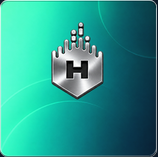
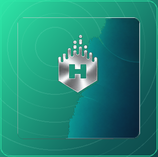
Yogiyo-style 260px sidebar + chrome mint tiles
- Expanded left sidebar (게임/이벤트/투윈TV/일반적인) with Twowin mint
- Hamburger toggle; event + TwowinTV cards; expandable sports menus
- Category & provider tiles: mint diagonal gradient + silver chrome logos only
- Flush image top + KO/EN label bars; sportsbook photo → chrome lettering

diff --git a/index.html b/index.html
@@ -5,53 +5,96 @@
 <meta name="viewport" content="width=device-width,initial-scale=1">
 <title>TWOWIN BET</title>
 <style>
-/* Pixel-locked to tting-2.com @ 1920×1072
-   header 60 · sidebar 80 · main 1400@x300 · content 1336 pad32
-   hero 1336×240 · cats 123×126 gap12 · cards 158×211 gap10 ×8
-   TWOWIN mint/silver skin */
+/* Twowin mint · yogiyo-style expanded sidebar 260 · tting content lock */
 :root{
   --bg:#070e18; --panel:#0d1826; --panel2:#111f30; --side:#0a1420;
-  --mint:#2EE8A8; --text:#e8eef4; --muted:#8a9aab; --line:#2EE8A833;
+  --mint:#2EE8A8; --mint2:#30D4A4; --text:#e8eef4; --muted:#8a9aab; --line:#2EE8A833;
   --silver:linear-gradient(180deg,#f7f9fb 0%,#c5ced8 52%,#8e99a6 100%);
-  --hh:60px; --sw:80px; --main-x:300px; --cw:1336px; --main-w:1400px;
+  --hh:60px; --sw:260px; --main-x:280px; --cw:1336px; --main-w:1400px;
 }
 *{box-sizing:border-box}
 html,body{margin:0;background:var(--bg);color:var(--text);font-family:"Pretendard","Noto Sans KR",system-ui,sans-serif;min-width:1440px}
 a{color:inherit;text-decoration:none}
+body.side-collapsed{--sw:0px;--main-x:24px}
 header.desktop-header{
   width:1920px;max-width:100%;height:var(--hh);
-  display:flex;align-items:center;gap:10px;padding:0 24px;
+  display:flex;align-items:center;gap:12px;padding:0 24px;
   background:#070e18;border-bottom:1px solid var(--line);
   position:fixed;inset:0 0 auto 0;z-index:30;
 }
+.hamb{
+  width:36px;height:36px;border-radius:8px;border:1px solid #2EE8A844;
+  background:var(--panel2);color:var(--mint);cursor:pointer;
+  display:grid;place-items:center;font-size:18px;line-height:1;flex:0 0 auto;
+}
+.hamb:hover{border-color:var(--mint);box-shadow:0 0 10px #2EE8A855}
 header .logo{height:32px;width:auto}
 header .sp{flex:1}
 .ib{width:36px;height:36px;border-radius:50%;background:var(--panel2);border:1px solid #2EE8A844;display:grid;place-items:center;color:var(--mint);font-size:14px}
 .btn{border:0;border-radius:8px;height:40px;padding:0 22px;font-weight:700;font-size:14px;cursor:pointer;background:var(--silver);color:#0a1420}
 .btn.ghost{background:transparent;border:1px solid #2EE8A855;color:var(--text)}
 .btn.m{background:var(--mint);color:#062218}
-/* collapsed icon sidebar — 80px, item 56×52, icon 24, x=12 */
+
+/* ===== Yogiyo-style expanded sidebar 260 ===== */
 aside.sidebar{
   position:fixed;top:var(--hh);left:0;bottom:0;width:var(--sw);
   background:var(--side);border-right:1px solid var(--line);
-  overflow:auto;padding:12px 0;z-index:25;display:flex;flex-direction:column;align-items:center;gap:4px;
+  overflow:hidden auto;padding:12px 0 24px;z-index:25;
+  transition:width .2s ease, padding .2s ease;
 }
-aside.sidebar .side-item{
-  position:relative;width:56px;height:52px;margin:0 auto;
-  border-radius:10px;display:flex;flex-direction:column;align-items:center;justify-content:center;
-  color:var(--muted);font-size:9px;font-weight:700;gap:4px;cursor:pointer;
+body.side-collapsed aside.sidebar{padding:0;border-right:0;overflow:hidden}
+.side-sec{padding:6px 17px 10px;width:100%}
+.side-sec-title{
+  font-size:12px;font-weight:700;color:var(--muted);
+  letter-spacing:.02em;margin:8px 0 8px;padding:0 4px;
 }
-aside.sidebar .side-item .ic{
-  width:24px;height:24px;border-radius:6px;background:var(--panel2);
-  display:grid;place-items:center;color:var(--mint);font-size:11px;font-weight:900;overflow:hidden;
+.side-item{
+  position:relative;width:226px;height:42px;margin:0 0 4px;
+  border-radius:10px;display:flex;align-items:center;gap:12px;
+  padding:0 12px;color:#d7e2ec;font-size:14px;font-weight:600;
+  cursor:pointer;border:0;background:transparent;text-align:left;
 }
-aside.sidebar .side-item:hover,aside.sidebar .side-item.on{background:#12384f;color:var(--mint)}
-aside.sidebar .side-item.on{box-shadow:inset 3px 0 0 var(--mint)}
-/* main-desktop: 1400 @ x=300; inner 1336 with 32 pad → content x=332 */
+.side-item .ic{
+  width:24px;height:24px;flex:0 0 24px;color:var(--mint);
+  display:grid;place-items:center;
+}
+.side-item .ic svg{width:22px;height:22px;display:block}
+.side-item .lab{flex:1;white-space:nowrap;overflow:hidden;text-overflow:ellipsis}
+.side-item .chev{color:var(--muted);font-size:12px;transition:transform .15s}
+.side-item.open .chev{transform:rotate(180deg);color:var(--mint)}
+.side-item:hover,.side-item.on{background:#12384f;color:var(--mint)}
+.side-item.on{box-shadow:inset 3px 0 0 var(--mint)}
+.side-sub{display:none;padding:0 0 6px 36px}
+.side-item.open + .side-sub{display:block}
+.side-sub a{
+  display:block;height:32px;line-height:32px;font-size:13px;color:var(--muted);
+  border-radius:8px;padding:0 10px;
+}
+.side-sub a:hover{color:var(--mint);background:#12384f66}
+.side-item.gen{height:38px;font-size:13px;font-weight:500;color:#c5d0db}
+.side-card{
+  width:226px;height:58px;border-radius:12px;margin:4px 0 8px;
+  background:linear-gradient(135deg,#12384f 0%,#0d1826 60%);
+  border:1px solid #2EE8A855;display:flex;align-items:center;gap:12px;
+  padding:0 12px;cursor:pointer;overflow:hidden;
+  box-shadow:inset 0 0 18px #2EE8A820;
+}
+.side-card:hover{border-color:var(--mint);box-shadow:0 0 14px #2EE8A855}
+.side-card .ic{
+  width:36px;height:36px;border-radius:10px;flex:0 0 36px;
+  background:linear-gradient(135deg,#2EE8A8,#0a3a34);display:grid;place-items:center;color:#fff;
+}
+.side-card .ic svg{width:22px;height:22px}
+.side-card .txt{display:flex;flex-direction:column;gap:2px;min-width:0}
+.side-card .txt b{font-size:14px;font-weight:800;color:#fff;white-space:nowrap;overflow:hidden;text-overflow:ellipsis}
+.side-card .txt small{font-size:11px;color:var(--muted);white-space:nowrap;overflow:hidden;text-overflow:ellipsis}
+.side-card.tv .ic{background:linear-gradient(135deg,#30D4A4,#0b5d4f)}
+
 main.main-desktop{
   margin:var(--hh) 0 0 var(--main-x);
   width:var(--main-w);max-width:calc(100% - var(--main-x));
-  padding:32px 32px 48px; /* 32 pad → content 1336 inside 1400 */
+  padding:32px 32px 48px;
+  transition:margin .2s ease;
 }
 .hero-banner{
   width:1336px;max-width:100%;height:240px;border-radius:14px;overflow:hidden;
@@ -64,16 +107,30 @@ main.main-desktop{
   border:0;background:#000a;color:#fff;cursor:pointer;font-size:18px;z-index:2;
 }
 .hero-banner .arrow.l{left:12px}.hero-banner .arrow.r{right:12px}
-.quick-nav-section{width:1336px;max-width:100%;height:126px;margin:30px 0 30px;display:grid;grid-template-columns:repeat(auto-fit,minmax(123px,1fr));gap:12px}
-.main-card{
-  position:relative;width:100%;height:126px;
-  background:var(--panel);border:1px solid #2EE8A844;border-radius:12px;
-  display:flex;flex-direction:column;align-items:center;justify-content:center;gap:10px;
-  font-size:13px;font-weight:700;box-shadow:inset 0 0 18px #2EE8A814;
+
+/* Category quick-nav: flush mint chrome tile + KO/EN label bar */
+.quick-nav-section{
+  width:1336px;max-width:100%;margin:30px 0 30px;
+  display:grid;grid-template-columns:repeat(7,1fr);gap:12px;
 }
-.main-card .ic{width:40px;height:40px;border-radius:10px;background:var(--silver);display:grid;place-items:center;color:#0a1420;font-weight:900;font-size:14px;overflow:hidden}
-.main-card .ic img{width:100%;height:100%;object-fit:cover}
+.main-card{
+  position:relative;width:100%;height:148px;
+  background:var(--panel);border:1px solid #2EE8A844;border-radius:12px;
+  display:flex;flex-direction:column;overflow:hidden;
+  box-shadow:inset 0 0 18px #2EE8A814;padding:0;
+}
+.main-card img.tile{
+  width:100%;height:104px;object-fit:cover;object-position:top center;
+  display:block;flex:0 0 104px;background:linear-gradient(135deg,#2EE8A8,#070e18);
+}
+.main-card .lbl{
+  flex:1;background:#2a2f38;display:flex;flex-direction:column;
+  justify-content:center;align-items:center;gap:1px;padding:4px 6px;text-align:center;
+}
+.main-card .lbl b{color:#fff;font-size:13px;font-weight:700;white-space:nowrap;overflow:hidden;text-overflow:ellipsis;max-width:100%}
+.main-card .lbl small{color:#9aa3ae;font-size:10px;white-space:nowrap;overflow:hidden;text-overflow:ellipsis;max-width:100%}
 .main-card:hover{border-color:var(--mint);box-shadow:0 0 14px #2EE8A866}
+
 .section-head{
   width:1336px;max-width:100%;height:38px;display:flex;align-items:center;gap:10px;margin:0 0 16px;
 }
@@ -87,9 +144,9 @@ section.game-section{width:1336px;max-width:100%;margin-bottom:28px}
 .pachinko-game-card-info{
   position:relative;flex:0 0 158px;width:158px;height:211px;
   border-radius:10px;overflow:hidden;border:1px solid #2EE8A855;background:var(--panel);
+  display:flex;flex-direction:column;
 }
-.pachinko-game-card-info{display:flex;flex-direction:column}
-.pachinko-game-card-info img{width:158px;height:155px;object-fit:cover;object-position:top center;display:block;background:#0d1826;flex:0 0 155px}
+.pachinko-game-card-info img{width:158px;height:155px;object-fit:cover;object-position:top center;display:block;background:linear-gradient(135deg,#2EE8A8,#070e18);flex:0 0 155px}
 .pachinko-game-card-info .lbl{flex:1;background:#2a2f38;display:flex;flex-direction:column;justify-content:center;align-items:center;gap:2px;padding:4px 6px;text-align:center}
 .pachinko-game-card-info .lbl b{color:#fff;font-size:14px;font-weight:700;white-space:nowrap;overflow:hidden;text-overflow:ellipsis;max-width:100%}
 .pachinko-game-card-info .lbl small{color:#9aa3ae;font-size:11px;white-space:nowrap;overflow:hidden;text-overflow:ellipsis;max-width:100%}
@@ -99,7 +156,7 @@ footer{
   margin-left:var(--main-x);width:var(--main-w);max-width:calc(100% - var(--main-x));
   background:#070e18;border-top:1px solid var(--line);
   padding:22px 32px;color:var(--muted);font-size:12px;
-  display:flex;flex-wrap:wrap;align-items:center;gap:18px;
+  display:flex;flex-wrap:wrap;align-items:center;gap:18px;transition:margin .2s ease;
 }
 footer .logo{height:26px}
 footer nav{display:flex;flex-wrap:wrap;gap:14px;flex:1}
@@ -115,6 +172,7 @@ footer nav span{position:relative}
 </head>
 <body>
 <header class="desktop-header">
+  <button class="hamb" id="hamb" type="button" aria-label="메뉴">☰</button>
   <img class="logo" src="img/logo.png" alt="TWOWIN">
   <div class="sp"></div>
   <div class="ib">👤</div>
@@ -145,7 +203,7 @@ footer nav span{position:relative}
 </div>
 <script src="config.js"></script>
 <script>
-const KEY='twowin-tting-v5';
+const KEY='twowin-tting-v6';
 let S=JSON.parse(localStorage.getItem(KEY)||'null')||JSON.parse(JSON.stringify(SITE));
 const save=()=>localStorage.setItem(KEY,JSON.stringify(S));
 const $=id=>document.getElementById(id);
@@ -161,15 +219,89 @@ function bind(el,arr){
     save();R();
   });
 }
+
+const ICONS={
+  pac:`<svg viewBox="0 0 24 24" fill="none" stroke="currentColor" stroke-width="1.8"><circle cx="12" cy="12" r="8"/><path d="M12 4v8l5 3"/></svg>`,
+  cas:`<svg viewBox="0 0 24 24" fill="none" stroke="currentColor" stroke-width="1.8"><rect x="4" y="5" width="10" height="14" rx="1.5"/><rect x="10" y="7" width="10" height="14" rx="1.5"/></svg>`,
+  slt:`<svg viewBox="0 0 24 24" fill="none" stroke="currentColor" stroke-width="1.8"><rect x="5" y="3" width="14" height="18" rx="2"/><path d="M8 8h8M8 12h8M8 16h8"/></svg>`,
+  spo:`<svg viewBox="0 0 24 24" fill="none" stroke="currentColor" stroke-width="1.8"><circle cx="12" cy="12" r="8"/><path d="M12 4c2 2.5 3 5 3 8s-1 5.5-3 8c-2-2.5-3-5-3-8s1-5.5 3-8zM4 12h16"/></svg>`,
+  bok:`<svg viewBox="0 0 24 24" fill="none" stroke="currentColor" stroke-width="1.8"><path d="M5 4h11a3 3 0 013 3v13H8a3 3 0 01-3-3V4z"/><path d="M8 4v16"/><circle cx="15" cy="11" r="2"/></svg>`,
+  b365:`<svg viewBox="0 0 24 24" fill="currentColor"><text x="12" y="16" text-anchor="middle" font-size="8" font-weight="800" font-family="Arial">365</text></svg>`,
+  mini:`<svg viewBox="0 0 24 24" fill="none" stroke="currentColor" stroke-width="1.8"><rect x="4" y="4" width="7" height="7" rx="1"/><rect x="13" y="4" width="7" height="7" rx="1"/><rect x="4" y="13" width="7" height="7" rx="1"/><rect x="13" y="13" width="7" height="7" rx="1"/></svg>`,
+  poly:`<svg viewBox="0 0 24 24" fill="none" stroke="currentColor" stroke-width="1.8"><path d="M12 3l8 5v8l-8 5-8-5V8l8-5z"/><path d="M12 12l8-4M12 12v10M12 12L4 8"/></svg>`,
+  brd:`<svg viewBox="0 0 24 24" fill="none" stroke="currentColor" stroke-width="1.8"><path d="M12 3l2.2 4.5L19 8.2l-3.5 3.4.8 4.9L12 14.8 7.7 16.5l.8-4.9L5 8.2l4.8-.7L12 3z"/></svg>`,
+  evt:`<svg viewBox="0 0 24 24" fill="none" stroke="currentColor" stroke-width="1.8"><rect x="5" y="6" width="14" height="14" rx="2"/><circle cx="10" cy="13" r="1.5"/><circle cx="14" cy="15" r="1.5"/></svg>`,
+  tv:`<svg viewBox="0 0 24 24" fill="none" stroke="currentColor" stroke-width="1.8"><rect x="3" y="7" width="18" height="12" rx="2"/><path d="M8 7l4-3 4 3M12 19v2"/></svg>`,
+  user:`<svg viewBox="0 0 24 24" fill="none" stroke="currentColor" stroke-width="1.8"><circle cx="12" cy="8" r="3.5"/><path d="M5 19c1.5-3.5 4-5 7-5s5.5 1.5 7 5"/></svg>`,
+  cal:`<svg viewBox="0 0 24 24" fill="none" stroke="currentColor" stroke-width="1.8"><rect x="4" y="5" width="16" height="15" rx="2"/><path d="M8 3v4M16 3v4M4 10h16"/></svg>`,
+  cs:`<svg viewBox="0 0 24 24" fill="none" stroke="currentColor" stroke-width="1.8"><path d="M4 12a8 8 0 0116 0v5a2 2 0 01-2 2h-2v-6h4M4 13h4v6H6a2 2 0 01-2-2v-4z"/></svg>`,
+  faq:`<svg viewBox="0 0 24 24" fill="none" stroke="currentColor" stroke-width="1.8"><path d="M8 9a4 4 0 017.2-2.4A3.5 3.5 0 0116 13h-2a2 2 0 00-2 2v1"/><circle cx="12" cy="19" r="1" fill="currentColor"/></svg>`,
+  doc:`<svg viewBox="0 0 24 24" fill="none" stroke="currentColor" stroke-width="1.8"><path d="M7 3h7l5 5v13a1 1 0 01-1 1H7a1 1 0 01-1-1V4a1 1 0 011-1z"/><path d="M14 3v5h5M9 13h6M9 17h6"/></svg>`,
+  globe:`<svg viewBox="0 0 24 24" fill="none" stroke="currentColor" stroke-width="1.8"><circle cx="12" cy="12" r="8"/><path d="M4 12h16M12 4c2.5 2.8 3.5 5.5 3.5 8S14.5 17.2 12 20c-2.5-2.8-3.5-5.5-3.5-8S9.5 6.8 12 4z"/></svg>`,
+  tg:`<svg viewBox="0 0 24 24" fill="none" stroke="currentColor" stroke-width="1.8"><path d="M4 11l15-6-3 15-5-4-3 3-1-5-3-3z"/></svg>`
+};
+const icon=k=>ICONS[k]||ICONS.pac;
+
+function renderSide(){
+  const secs=S.sideSections||SITE.sideSections||[];
+  let html='';
+  let flatIdx=0;
+  const flat=S.sideMenus||[];
+  secs.forEach((sec,si)=>{
+    html+=`<div class="side-sec" data-si="${si}">`;
+    html+=`<div class="side-sec-title">${sec.title}</div>`;
+    if(sec.kind==='eventCard'||sec.kind==='tvCard'){
+      const c=sec.card||{};
+      html+=`<div class="side-card ${sec.kind==='tvCard'?'tv':''} ed"><div class="ic">${icon(c.icon)}</div><div class="txt"><b>${c.title||''}</b><small>${c.sub||''}</small></div></div>`;
+    }else{
+      const items=sec.items||[];
+      const isGen=sec.title==='일반적인';
+      items.forEach((it,ii)=>{
+        const exp=!!it.expandable;
+        html+=`<button type="button" class="side-item ed ${isGen?'gen':''}" data-exp="${exp?1:0}" data-si="${si}" data-ii="${ii}">
+          <span class="ic">${icon(it.icon)}</span><span class="lab">${it.label}</span>
+          ${exp?'<span class="chev">▾</span>':''}
+          ${document.body.classList.contains('edit')?`<span class="x" data-a="sdel" data-si="${si}" data-ii="${ii}" style="position:absolute;right:4px;top:4px;display:block">×</span>`:''}
+        </button>`;
+        if(exp){
+          html+=`<div class="side-sub">${(it.children||[]).map(ch=>`<a href="#">${ch}</a>`).join('')}</div>`;
+        }
+        flatIdx++;
+      });
+    }
+    html+='</div>';
+  });
+  $('side').innerHTML=html;
+  $('side').querySelectorAll('.side-item[data-exp="1"]').forEach(btn=>{
+    btn.onclick=e=>{
+      if(e.target.closest('[data-a]'))return;
+      btn.classList.toggle('open');
+    };
+  });
+  $('side').querySelectorAll('[data-a="sdel"]').forEach(b=>{
+    b.onclick=e=>{
+      e.preventDefault();e.stopPropagation();
+      const si=+b.dataset.si,ii=+b.dataset.ii;
+      if(!confirm('삭제할까요?'))return;
+      (S.sideSections[si].items||[]).splice(ii,1);
+      save();R();
+    };
+  });
+}
+
 function R(){
-  const sideMenus=S.sideMenus||S.menus||[];
-  $('side').innerHTML=sideMenus.map((m,i)=>`<a href="#" class="side-item ed" title="${m}">${C(i)}<div class="ic">${m[0]}</div><span>${m.length>5?m.slice(0,4)+'…':m}</span></a>`).join('');
-  bind($('side'),sideMenus);
-  $('cats').innerHTML=(S.menus||[]).map((c,i)=>`<div class="main-card ed">${C(i)}<div class="ic"><img src="icons/cat-${(S.menuIcons&&S.menuIcons[i])||n2(i)}.png" onerror="this.replaceWith(document.createTextNode('${c[0]}'))"></div>${c}</div>`).join('');
+  renderSide();
+  const ens=S.menuEn||SITE.menuEn||[];
+  $('cats').innerHTML=(S.menus||[]).map((c,i)=>{
+    const en=ens[i]||'';
+    const ic=(S.menuIcons&&S.menuIcons[i])||n2(i);
+    return `<div class="main-card ed">${C(i)}<img class="tile" src="icons/cat-${ic}.png" alt="${c}" onerror="this.style.opacity=.3"><div class="lbl"><b contenteditable>${c}</b><small contenteditable>${en}</small></div></div>`;
+  }).join('');
   bind($('cats'),S.menus);
   $('fl').innerHTML=(S.footerLinks||[]).map((f,i)=>`<span class="ed">${f}<button class="x" style="top:-14px;right:-10px" data-a="del" data-i="${i}">×</button></span>`).join('');
   bind($('fl'),S.footerLinks);
-  const KO={evolution:'에볼루션',pragmatic:'프라그마틱',blackjack:'블랙잭',baccarat:'바카라',roulette:'룰렛',wheel:'휠',microgaming:'마이크로게이밍',playtech:'플레이텍',dreamgaming:'드림게이밍',sexy:'섹시게이밍',ezugi:'이주기',skywind:'스카이윈드',betradar:'벳레이더',hacksaw:'핵쏘',pgsoft:'PG소프트',habanero:'하바네로',netent:'넷엔트',cq9:'CQ9',booongo:'부운고',redtiger:'레드타이거',relax:'릴렉스'};
+  const KO={evolution:'에볼루션',pragmatic:'프라그마틱',blackjack:'블랙잭',baccarat:'바카라',roulette:'룰렛',wheel:'휠',microgaming:'마이크로게이밍',playtech:'플레이텍',dreamgaming:'드림게이밍',sexy:'섹시게이밍',ezugi:'이주기',skywind:'스카이윈드',betradar:'벳레이더',hacksaw:'핵쏘',pgsoft:'PG소프트',habanero:'하바네로',netent:'넷엔트',cq9:'CQ9',booongo:'부운고',boongo:'부운고',redtiger:'레드타이거',relax:'릴렉스',allbet:'올벳',oriental:'오리엔탈',playace:'플레이에이스',sportsbook:'스포츠북',saba:'사바',bt1:'BT1'};
+  const EN={evolution:'EVOLUTION',pragmatic:'PRAGMATIC',microgaming:'MICROGAMING',pgsoft:'PG SOFT',habanero:'HABANERO',netent:'NETENT',boongo:'BOOONGO',allbet:'ALLBET',oriental:'ORIENTAL',playace:'PLAYACE',sportsbook:'SPORTSBOOK',saba:'SABA',bt1:'BT1'};
   $('rails').innerHTML=(S.rails||[]).map((r,ri)=>`<section class="game-section ed">
     <div class="section-head">
       <h2><span class="dot"></span>${r.title}</h2>
@@ -178,10 +310,13 @@ function R(){
       <button class="x" style="position:static" data-s="${ri}">×</button>
       <button class="mv" style="position:static;border-radius:8px;width:auto;padding:0 8px" data-su="${ri}">▲</button>
     </div>
-    <div class="rail" data-ri="${ri}">${(r.items&&r.items.length?r.items:Array(8).fill(null)).slice(0,8).map((f,i)=>f
-      ?`<div class="pachinko-game-card-info ed">${C(i)}<img src="${r.dir}/${f}" alt="${f}" title="${r.dir}/${f}" onerror="this.parentElement.classList.add('empty');this.remove()"><div class="lbl"><b contenteditable>${KO[f.replace(/\.\w+$/,'').toLowerCase()]||f.replace(/\.\w+$/,'')}</b><small contenteditable>${f.replace(/\.\w+$/,'').replace(/[-_]/g,' ').toUpperCase()}</small></div></div>`
-      :`<div class="pachinko-game-card-info empty ed">${C(i)}</div>`
-    ).join('')}</div>
+    <div class="rail" data-ri="${ri}">${(r.items&&r.items.length?r.items:Array(8).fill(null)).slice(0,8).map((f,i)=>{
+      if(!f) return `<div class="pachinko-game-card-info empty ed">${C(i)}</div>`;
+      const key=f.replace(/\.\w+$/,'').toLowerCase();
+      const ko=KO[key]||key;
+      const en=EN[key]||key.replace(/[-_]/g,' ').toUpperCase();
+      return `<div class="pachinko-game-card-info ed">${C(i)}<img src="${r.dir}/${f}" alt="${f}" title="${r.dir}/${f}" onerror="this.parentElement.classList.add('empty');this.remove()"><div class="lbl"><b contenteditable>${ko}</b><small contenteditable>${en}</small></div></div>`;
+    }).join('')}</div>
   </section>`).join('');
   document.querySelectorAll('.rail').forEach(el=>{
     const ri=+el.dataset.ri;
@@ -192,7 +327,8 @@ function R(){
   document.querySelectorAll('[data-su]').forEach(b=>b.onclick=()=>{const i=+b.dataset.su;if(i>0){[S.rails[i-1],S.rails[i]]=[S.rails[i],S.rails[i-1]];save();R()}});
 }
 R();
-$('tg').onclick=()=>{document.body.classList.toggle('edit');$('tg').textContent=document.body.classList.contains('edit')?'편집 끝':'편집모드'};
+$('hamb').onclick=()=>document.body.classList.toggle('side-collapsed');
+$('tg').onclick=()=>{document.body.classList.toggle('edit');$('tg').textContent=document.body.classList.contains('edit')?'편집 끝':'편집모드';R()};
 $('rs').onclick=()=>{if(confirm('config.js 원래대로?')){localStorage.removeItem(KEY);S=JSON.parse(JSON.stringify(SITE));R()}};
 $('ex').onclick=()=>{const a=document.createElement('a');a.href=URL.createObjectURL(new Blob(['window.SITE = '+JSON.stringify(S,null,2)+';\n'],{type:'text/javascript'}));a.download='config.js';a.click()};
 </script>

diff --git a/config.js b/config.js
@@ -1,11 +1,51 @@
 window.SITE = {
+  "sideSections": [
+    {
+      "title": "게임",
+      "items": [
+        {"id":"pachinko","label":"파칭코","icon":"pac"},
+        {"id":"casino","label":"카지노","icon":"cas"},
+        {"id":"slot","label":"슬롯","icon":"slt"},
+        {"id":"sports","label":"스포츠","icon":"spo","expandable":true,"children":["축구","야구","농구","배구"]},
+        {"id":"sportsbook","label":"스포츠북","icon":"bok","expandable":true,"children":["프리매치","라이브"]},
+        {"id":"bet365","label":"BET365","icon":"b365"},
+        {"id":"minigame","label":"미니게임","icon":"mini","expandable":true,"children":["파워볼","사다리","달팽이"]},
+        {"id":"polymarket","label":"폴리마켓","icon":"poly"},
+        {"id":"brand","label":"브랜드 게임","icon":"brd"}
+      ]
+    },
+    {
+      "title": "이벤트",
+      "kind": "eventCard",
+      "card": {"title":"투윈 이벤트","sub":"EVENT","icon":"evt"}
+    },
+    {
+      "title": "투윈TV",
+      "kind": "tvCard",
+      "card": {"title":"중계 TwowinTV","sub":"365일 24시간 실시간 스포츠","icon":"tv"}
+    },
+    {
+      "title": "일반적인",
+      "items": [
+        {"id":"mypage","label":"마이페이지","icon":"user"},
+        {"id":"event","label":"이벤트","icon":"cal"},
+        {"id":"cs","label":"고객센터","icon":"cs"},
+        {"id":"faq","label":"자주 물어보는 질문","icon":"faq"},
+        {"id":"terms","label":"이용규정","icon":"doc"},
+        {"id":"domain","label":"도메인","icon":"globe"},
+        {"id":"telegram","label":"텔레그램","icon":"tg"}
+      ]
+    }
+  ],
   "sideMenus": [
-    "카지노","슬롯","스포츠","스포츠북","BET365","폴리마켓","이벤트","마이페이지","고객센터"
+    "파칭코","카지노","슬롯","스포츠","스포츠북","BET365","미니게임","폴리마켓","브랜드 게임",
+    "마이페이지","이벤트","고객센터","FAQ","이용규정","도메인","텔레그램"
   ],
   "menus": [
     "스포츠","e스포츠","스포츠북","폴리마켓","카지노","슬롯","BET365"
   ],
   "menuIcons": ["02","03","04","05","06","07","09"],
+  "menuEn": ["SPORTS","ESPORTS","SPORTSBOOK","POLYMARKET","CASINO","SLOTS","BET365"],
   "footerLinks": [
     "홈","스포츠 베팅","라이브 카지노","슬롯","E스포츠","이벤트","FAQ","이용규정"
   ],
